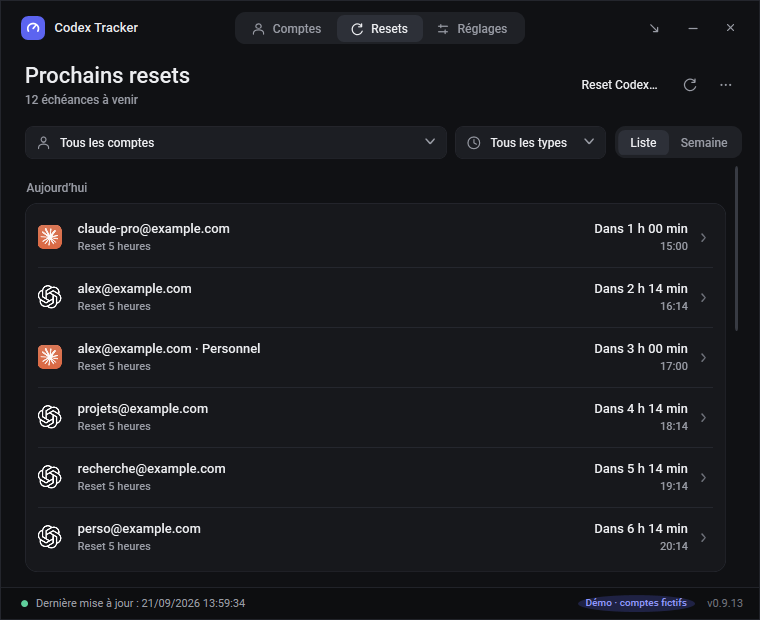
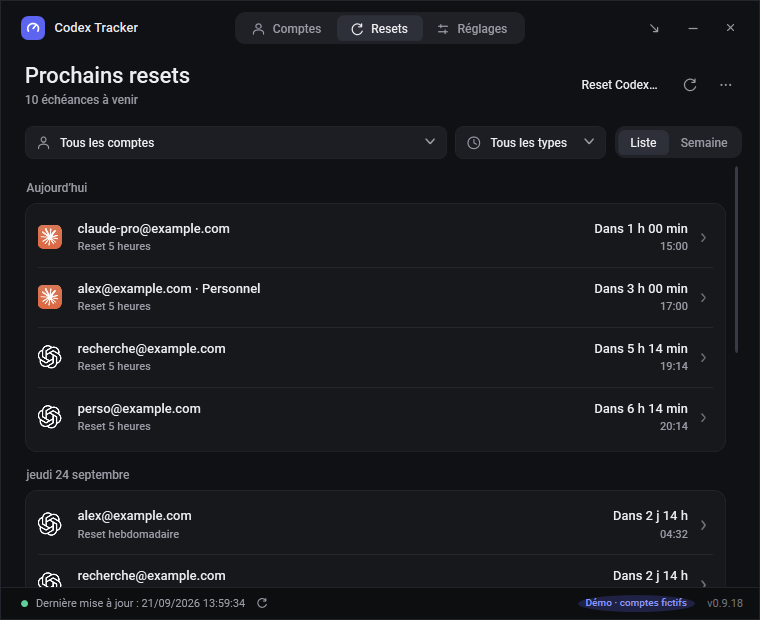
Régénérer les visuels hors écran et les ajouter au dépôt
scripts/visuals.ps1 rend toutes les vues, l’aperçu de l’icône et les détails
de la démo fictive hors écran, puis showcase.py compose docs/hero.png et
rafraîchit les captures du guide ; tour.py refait le GIF. Les captures
--*-screenshot ne s’affichent plus à l’écran. Le visuel montre Codex Pro sans
5 heures et l’aperçu à deux comptes.

diff --git a/scripts/showcase.py b/scripts/showcase.py
@@ -1,0 +1,49 @@
+"""Compose the README showcase and refresh the guide captures from fictional off-screen renders (requires Pillow)."""
+from pathlib import Path
+import shutil
+from PIL import Image, ImageDraw, ImageFilter
+
+ROOT = Path(__file__).resolve().parents[1]
+SHOTS = ROOT / "artifacts" / "previews"
+DOCS = ROOT / "docs"
+
+
+def rounded(image, radius):
+    image = image.convert("RGBA")
+    mask = Image.new("L", image.size, 0)
+    ImageDraw.Draw(mask).rounded_rectangle((0, 0, image.width - 1, image.height - 1), radius, fill=255)
+    image.putalpha(mask)
+    return image
+
+
+def place(canvas, image, x, y, radius=12, blur=26, offset=16, opacity=110):
+    image = rounded(image, radius)
+    shadow = Image.new("RGBA", (image.width + blur * 4, image.height + blur * 4), (0, 0, 0, 0))
+    silhouette = Image.new("RGBA", image.size, (0, 0, 0, opacity))
+    silhouette.putalpha(Image.eval(image.getchannel("A"), lambda a: a * opacity // 255))
+    shadow.paste(silhouette, (blur * 2, blur * 2), silhouette)
+    shadow = shadow.filter(ImageFilter.GaussianBlur(blur))
+    canvas.alpha_composite(shadow, (x - blur * 2, y - blur * 2 + offset))
+    canvas.alpha_composite(image, (x, y))
+
+
+# Light week behind, dark dashboard in front, tray preview (Codex and Claude Code together) on the right.
+peek = Image.open(SHOTS / "peek-dark.png")
+height = max(1010, 260 + peek.height)
+canvas = Image.new("RGBA", (1340, height), (0, 0, 0, 0))
+place(canvas, Image.open(SHOTS / "Semaine-light-normal-96.png"), 470, 60)
+place(canvas, Image.open(SHOTS / "Comptes-dark-normal-96.png"), 60, 210)
+place(canvas, peek, 900, height - peek.height - 70, radius=10, opacity=140)
+canvas = canvas.crop(canvas.getbbox())
+canvas.save(DOCS / "hero.png", optimize=True)
+print("hero.png", canvas.size)
+
+for target, source in {
+    "dashboard.png": "Comptes-dark-normal-96.png", "dashboard-light.png": "Comptes-light-normal-96.png",
+    "resets.png": "Resets-dark-normal-96.png", "resets-week.png": "Semaine-dark-normal-96.png",
+    "reminders.png": "Rappels-dark-normal-96.png", "settings.png": "Général-dark-normal-96.png",
+    "assistants.png": "Assistants-dark-normal-96.png", "channels.png": "Canaux-dark-normal-96.png",
+    "history.png": "details-dark.png",
+}.items():
+    shutil.copyfile(SHOTS / source, DOCS / target)
+    print(target, Image.open(DOCS / target).size)

diff --git a/src/CodexTracker.App/Ui.cs b/src/CodexTracker.App/Ui.cs
@@ -144,10 +144,13 @@ internal class ThemedWindow : Window
     protected readonly TextBlock Heading;
     protected readonly ScrollViewer ContentScroll;
     private readonly ThemeManager _theme;
+    private readonly bool _offscreen;
     public ThemedWindow(Window owner, string title, ThemeManager theme, double width, double height)
     {
         SetResourceReference(StyleProperty, typeof(Window));
         Owner = owner; _theme = theme; Title = title; Width = width; Height = height;
+        // A capture from an off-screen preview stays off-screen too.
+        _offscreen = owner is MainWindow { Offscreen: true };
         MinWidth = Math.Min(width, 440); MinHeight = 390; WindowStartupLocation = WindowStartupLocation.CenterOwner;
         WindowStyle = WindowStyle.None; ResizeMode = ResizeMode.CanResize; ShowInTaskbar = false; UseLayoutRounding = true;
         SetResourceReference(BackgroundProperty, "BackgroundBrush"); SetResourceReference(ForegroundProperty, "TextBrush");
@@ -165,7 +168,8 @@ internal class ThemedWindow : Window
         UiMotion.SetRise(root, 10); UiMotion.SetFadeOnShow(root, true);
         frame.Child = root; Content = frame;
         SourceInitialized += (_, _) => { Ui.ConstrainInitialSize(this); ApplyChrome(); }; theme.Changed += ThemeChanged;
-        Loaded += (_, _) => Ui.EnsureWindowVisible(this);
+        if (_offscreen) { WindowStartupLocation = WindowStartupLocation.Manual; Left = Top = -32000; ShowActivated = false; }
+        Loaded += (_, _) => { if (!_offscreen) Ui.EnsureWindowVisible(this); };
         DpiChanged += (_, _) => Dispatcher.InvokeAsync(() => Ui.EnsureWindowVisible(this), System.Windows.Threading.DispatcherPriority.Loaded);
         Closed += (_, _) => theme.Changed -= ThemeChanged;
         KeyDown += (_, e) => { if (e.Key == Key.Escape) Close(); };

diff --git a/src/CodexTracker.App/TrayPeekWindow.cs b/src/CodexTracker.App/TrayPeekWindow.cs
@@ -11,7 +11,7 @@ internal sealed class TrayPeekWindow : Window
     // Codex and Claude Code can both be in use: each active account gets its own section.
     private readonly StackPanel _sections = new();
     private DrawingPoint _anchor;
-    private bool _positionQueued, _positioning, _closed;
+    private bool _positionQueued, _positioning, _closed, _offscreen;
 
     public TrayPeekWindow(Action open)
     {
@@ -179,7 +179,7 @@ internal sealed class TrayPeekWindow : Window
     }
     private void Position()
     {
-        if (_closed || !IsVisible || _positioning) return;
+        if (_closed || !IsVisible || _positioning || _offscreen) return;
         _positioning = true;
         try
         {
@@ -197,6 +197,14 @@ internal sealed class TrayPeekWindow : Window
     {
         if (!IsVisible || WindowsLifecycle.Bounds(new WindowInteropHelper(this).Handle) is not PixelRect bounds) return false;
         return point.X >= bounds.X - 5 && point.X <= bounds.Right + 5 && point.Y >= bounds.Y - 5 && point.Y <= bounds.Bottom + 5;
+    }
+
+    /// <summary>Documentation capture rendered off-screen: nothing appears near the cursor.</summary>
+    internal void SaveOffscreenScreenshot(string path, double dpi = 96)
+    {
+        _offscreen = true;
+        try { WindowStartupLocation = WindowStartupLocation.Manual; Left = Top = -32000; Show(); UpdateLayout(); SaveScreenshot(path, dpi); Hide(); }
+        finally { _offscreen = false; }
     }
 
     internal void SaveScreenshot(string path, double dpi = 96)

diff --git a/src/CodexTracker.App/App.xaml.cs b/src/CodexTracker.App/App.xaml.cs
@@ -120,9 +120,9 @@ public partial class App : System.Windows.Application
             _environmentTimer.Tick += EnvironmentTimerTick;
             SystemEvents.PowerModeChanged += PowerModeChanged;
             SystemEvents.DisplaySettingsChanged += DisplaySettingsChanged;
-            if (e.Args.Contains("--preview"))
+            if (e.Args.Contains("--preview") || e.Args.Any(a => a.StartsWith("--", StringComparison.Ordinal) && a.EndsWith("-screenshot", StringComparison.Ordinal)))
             {
-                // Previews render off-screen without activation: they never take focus from the user's work or game.
+                // Previews and captures render off-screen without activation: they never take focus from the user's work or game.
                 window.Offscreen = true; window.ShowActivated = false; window.ShowInTaskbar = false;
                 window.WindowStartupLocation = WindowStartupLocation.Manual; window.Left = window.Top = -32000;
             }

diff --git a/src/CodexTracker.App/TrayController.cs b/src/CodexTracker.App/TrayController.cs
@@ -235,9 +235,7 @@ internal sealed class TrayController : IDisposable
     internal void SavePeekScreenshot(string path, double dpi = 96)
     {
         _peek.Update(_service.State, _preferences.Current);
-        _peek.ShowNear(Forms.Cursor.Position);
-        _peek.SaveScreenshot(path, dpi);
-        _peek.Hide();
+        _peek.SaveOffscreenScreenshot(path, dpi);
     }
 
     // Toasts carry an "open" action and a Windows-managed snooze; the classic balloon remains the fallback.

diff --git a/AGENTS.md b/AGENTS.md
@@ -18,6 +18,7 @@ Prérequis : Windows, SDK .NET 10, Python 3 pour le test du protocole.
 ./scripts/dev.ps1 -Action Demo
 ./scripts/dev.ps1 -Action Preview -View Assistants -Theme dark
 ./scripts/dev.ps1 -Action Preview -Matrix
+./scripts/visuals.ps1
 ./scripts/publish.ps1 -Version 0.9.2
 ./scripts/build-installer.ps1 -Version 0.9.2
 ./scripts/bump.ps1 -Version 0.9.19
@@ -46,4 +47,4 @@ Modifier une règle métier : tests de ses limites et erreurs. Modifier une comm
 
 ## Présentation publique
 
-README bref, orienté installation et usage ; détails dans docs/UTILISATION.md. Tour GIF rapide, exclusivement fictif. Notes de release très courtes avec l’installateur recommandé en premier, le ZIP en option et uniquement le checksum ZIP nécessaire aux anciennes versions du moteur de mise à jour. Le checksum EXE reste dans les artefacts locaux. Ni signature de code ni WinGet : abandonnés.
+README bref, orienté installation et usage ; détails dans docs/UTILISATION.md. Tour GIF rapide, exclusivement fictif ; `scripts/visuals.ps1` régénère hors écran le visuel principal, les captures du guide et le GIF (Pillow requis). Notes de release très courtes avec l’installateur recommandé en premier, le ZIP en option et uniquement le checksum ZIP nécessaire aux anciennes versions du moteur de mise à jour. Le checksum EXE reste dans les artefacts locaux. Ni signature de code ni WinGet : abandonnés.
